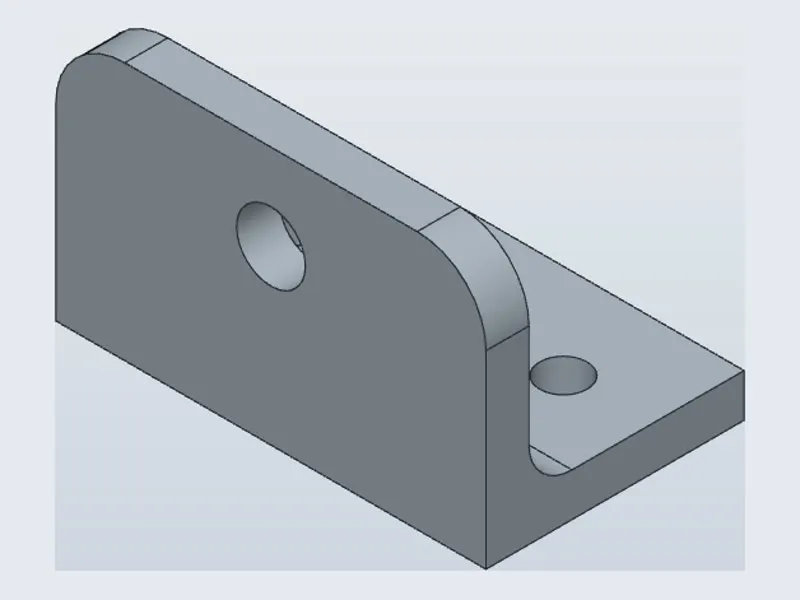
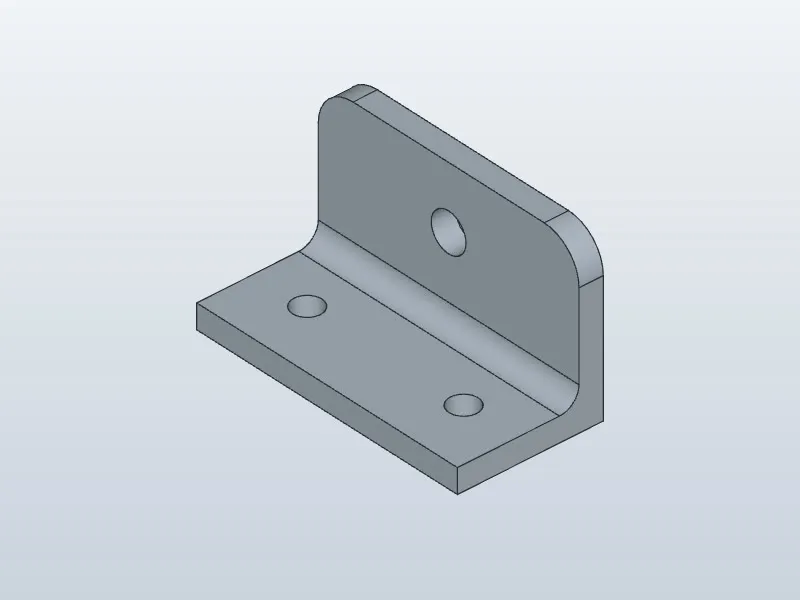
Update the PDM slides: process tests, shared sheet and geometry-to-G-code images

diff --git a/public/slides/pdm/index.html b/public/slides/pdm/index.html
@@ -13351,7 +13351,7 @@ iframe { display: block; width: 100%; height: auto; aspect-ratio: 16 / 9; border
   <div class="flow-text-arrow">→</div>
   <div>
     <h2>Slicer</h2>
-    <img src="assets/week2/chain_slice.webp" alt="Toolpaths of the first layers" />
+    <img src="assets/week2/chain_slice.webp" alt="Toolpaths, preview cut at mid-height" />
     <p>Cuts the mesh into layers and plans the toolpaths.</p>
   </div>
   <div class="flow-text-arrow">→</div>
@@ -14876,14 +14876,16 @@ iframe { display: block; width: 100%; height: auto; aspect-ratio: 16 / 9; border
       <li>Print it: A1 mini, class PLA</li>
       <li>Measure it</li>
       <li>Add your rule to the shared sheet</li>
-    </ol></div>
+    </ol>
+    <img class="ex-qr" src="assets/week2/qr_design_rules_sheet.svg" alt="QR code of the shared sheet" />
+    <p class="ex-url"><a href="https://devinci-my.sharepoint.com/personal/louis_badr_devinci_fr/_layouts/15/guestaccess.aspx?share=IQDxvb53GDPyRKpaY07EOUIPAeqkqkNQ6PDEDJvQiRhYtQg&amp;e=dU7ved">https://devinci-my.sharepoint.com/personal/louis_badr_devinci_fr/_layouts/15/guestaccess.aspx?share=IQDxvb53GDPyRKpaY07EOUIPAeqkqkNQ6PDEDJvQiRhYtQg&amp;e=dU7ved</a></p></div>
   <div><h2>Geometry tests</h2>
     <ul class="ex-tests">
       <li>Angle</li><li>Overhang</li><li>Bridging</li><li>Wall thickness</li><li>Dimension</li><li>Clearance</li><li>Surface finish</li>
     </ul>
-    <h2 class="mt-24">Experienced: process tests</h2>
+    <h2 class="mt-24">Process tests</h2>
     <ul class="ex-tests">
-      <li>Temperature</li><li>Flow ratio</li><li>Retraction</li><li>Speed</li><li>Infill</li><li>Pressure advance</li><li>Max volumetric speed</li><li>Cornering</li><li>VFA</li>
+      <li>Temperature</li><li>Max volumetric speed</li><li>Flow ratio</li><li>Pressure advance</li><li>Retraction</li><li>Infill</li>
     </ul>
     <p class="ex-note">Or: your geometry test in resin</p></div>
   <div><h2>Done early?</h2>
@@ -20336,6 +20338,12 @@ exporter sur cle USB (.ctb ou .goo selon le modele)
 
 COMMENTS:</p></div><div class="bespoke-marp-note" data-index="47" tabindex="0"><p>NOTES:
 fab academy group assignment / 1 variable par test / resultat lisible, pas graves / tableau : variable, plage, resultat, regle / imprimer seuls (Fab Lab) / avance : TU Delft Grasshopper, non planaire
+temperature : fluidite + adherence, base des autres tests
+max volumetric speed : debit max en mm3/s, surface plus brillante = limite
+flow ratio : quantite extrudee, cotes + adherence des couches
+pressure advance : coins et fins de ligne propres, A1 mini calibre deja en auto
+retraction : moins de fils
+infill : resistance selon le remplissage, plier les pieces
 
 COMMENTS:</p></div><div class="bespoke-marp-note" data-index="48" tabindex="0"><p>NOTES:
 
